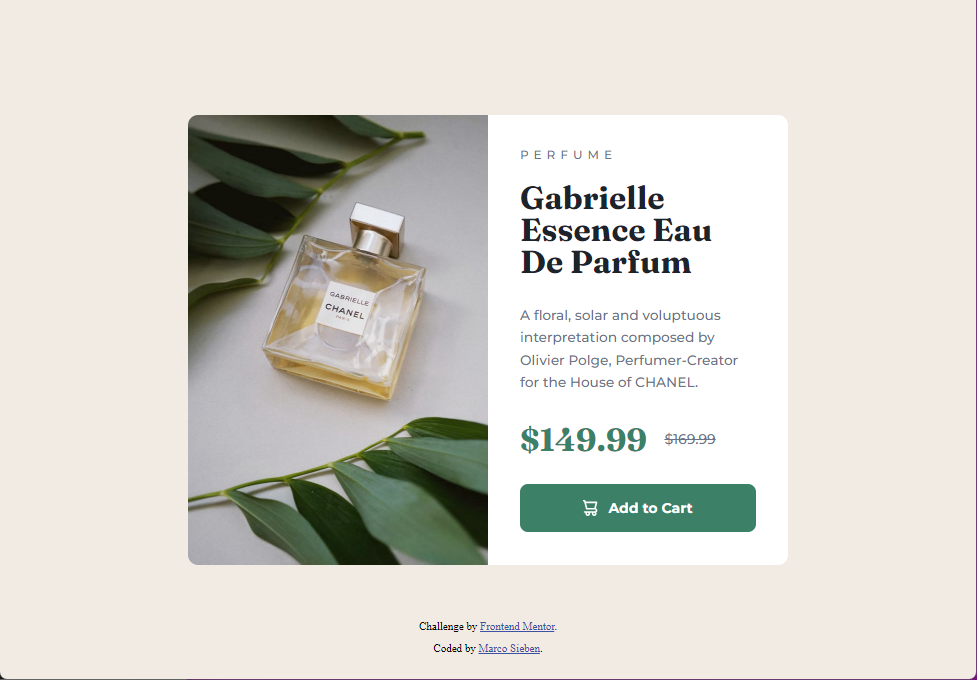
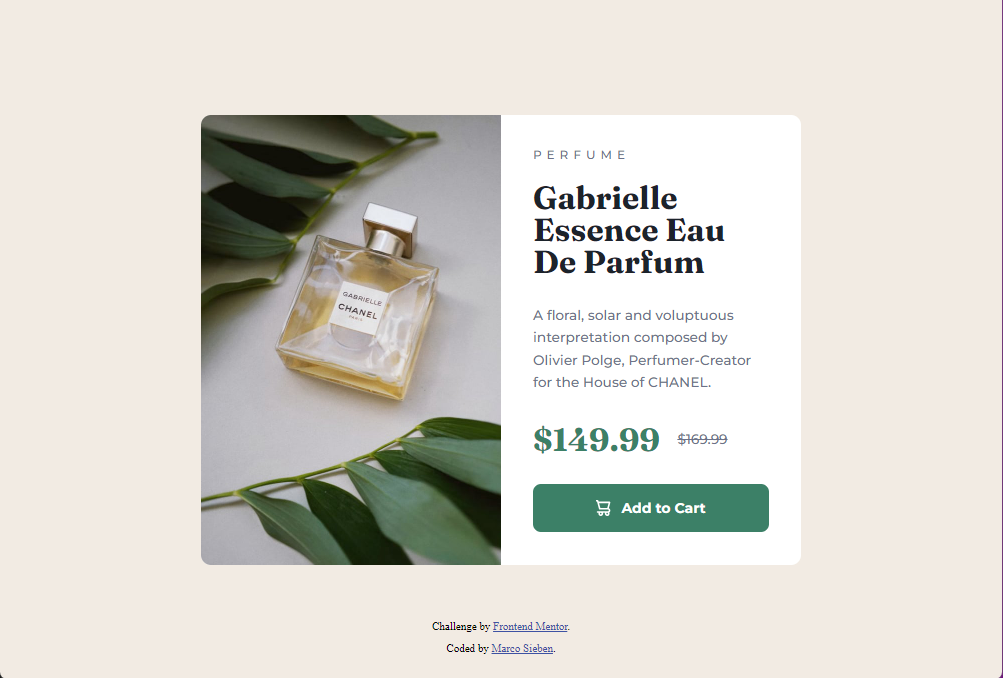
fixed style real price

diff --git a/styles/styles.css b/styles/styles.css
@@ -66,10 +66,6 @@ img {
   font-size: 3.2rem;
 }
 
-.card__price--real {
-  font-size: 1.4rem;
-}
-
 /* ------- Layout ------- */
 .card {
   width: 96%;
